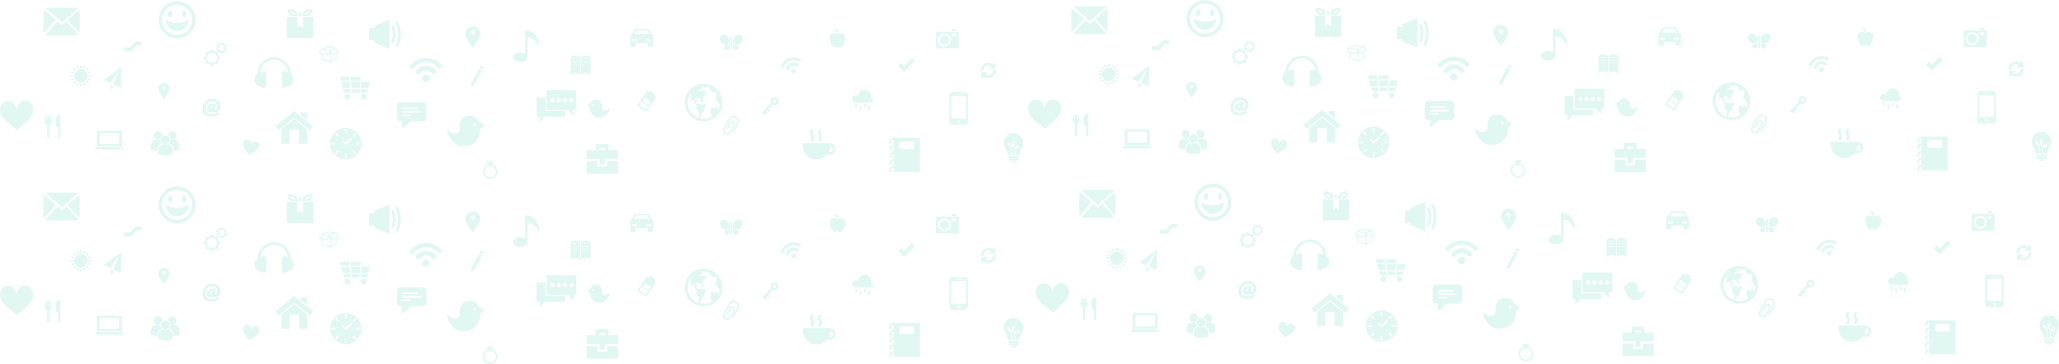
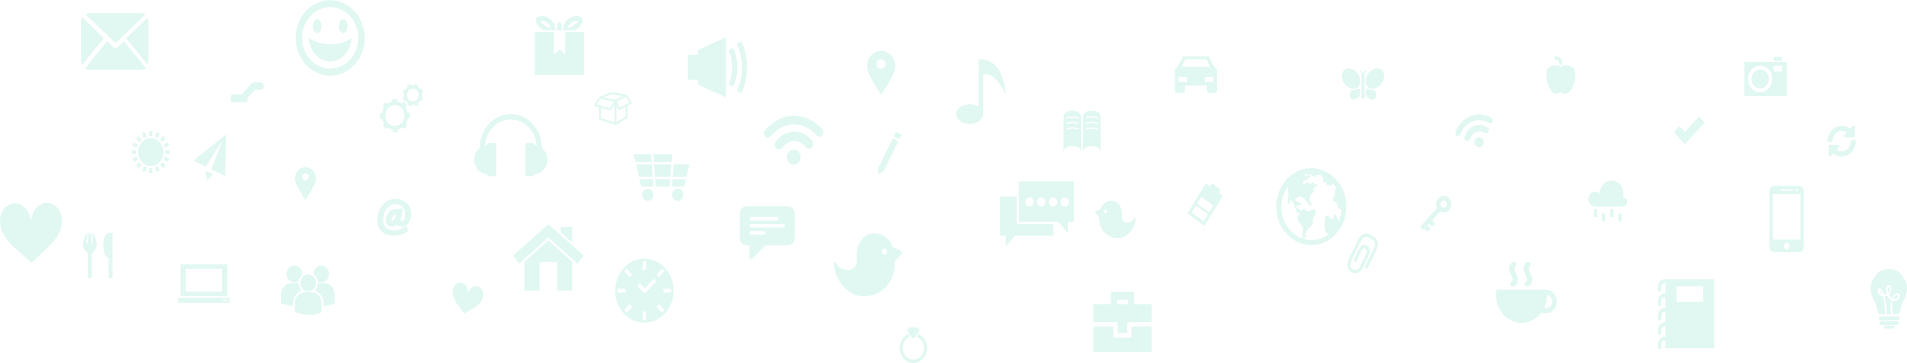
The background is changed

diff --git a/css/main.scss b/css/main.scss
@@ -171,9 +171,12 @@ footer {
 }
 
 .container {
+    margin-top: 1em;
+    margin-bottom: 1em;
+
     .col {
-        margin-top: 2em;
-        margin-bottom: 2em;
+        margin-top: 1em;
+        margin-bottom: 1em;
     }
 }
 
@@ -217,31 +220,12 @@ footer {
         font-size: 1.2em;
         padding: .75em 2em;
     }
-}
 
-.campus {
-    padding: 1.5em;
-    border-bottom: 1px solid darken($light-color, 5%);
-    background-image: url(../new-website-assets/Assets/export.png);
-    background-repeat: repeat;
-
-
-    &.full {
-        display: table;
-        table-layout: fixed;
-        min-height: 100%;
-        width: 100%;
-
-        .cover-content {
-            display: table-cell;
-            vertical-align: middle;
-        }
-    }
-
-   
-   .button {
-        font-size: 1.2em;
-        padding: .75em 2em;
+    &.campus {
+        padding: 5em;
+        background-color: #5b3dd9;
+        background-image: url(../new-website-assets/Assets/export.png);
+        background-repeat: repeat;
     }
 }
 

diff --git a/index-new.html b/index-new.html
@@ -16,11 +16,11 @@ permalink: /new/
     <p>Please enable Javascript for the website to work.</p>
 </div>
 
-<section class="cover full">
+<section class="cover campus full">
     <div class="cover-content">
         <div class="container">
             <h1 style="color:white">Where communities hang out.</h1>
-            <p style="color:white">Scrollback is a beautiful, open source text chat service designed for communities. Scrollback chat rooms can be embedded in websites and linked with Twitter hashtags or IRC channels.</p>
+           <!--  <p style="color:white">Scrollback is a beautiful, open source text chat service designed for communities. Scrollback chat rooms can be embedded in websites and linked with Twitter hashtags or IRC channels.</p> -->
             <a class="login-show button">Get started</a>
             <p><a style="color:white" id="trial-room">Try it first</a></p>
         </div>
